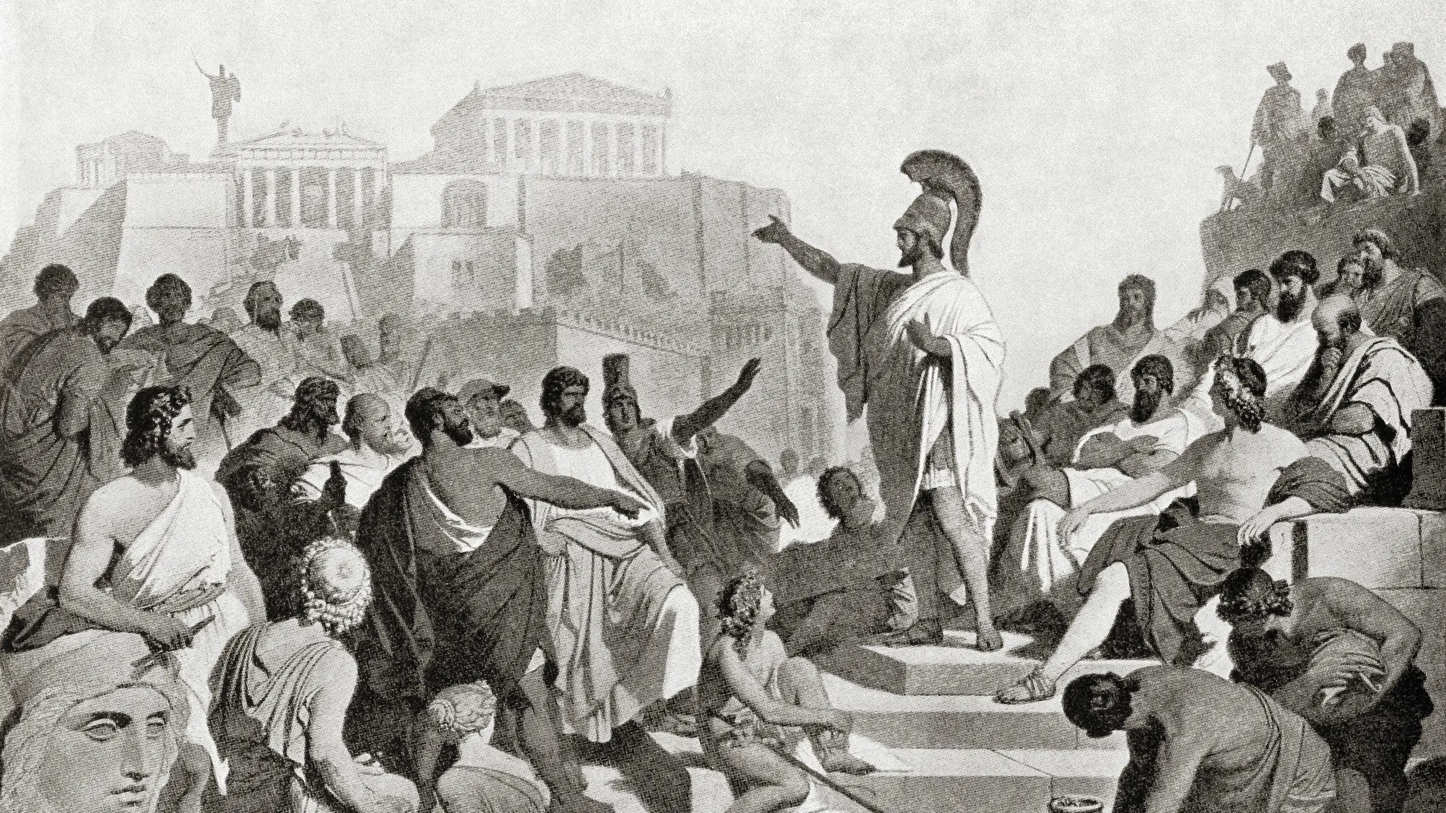
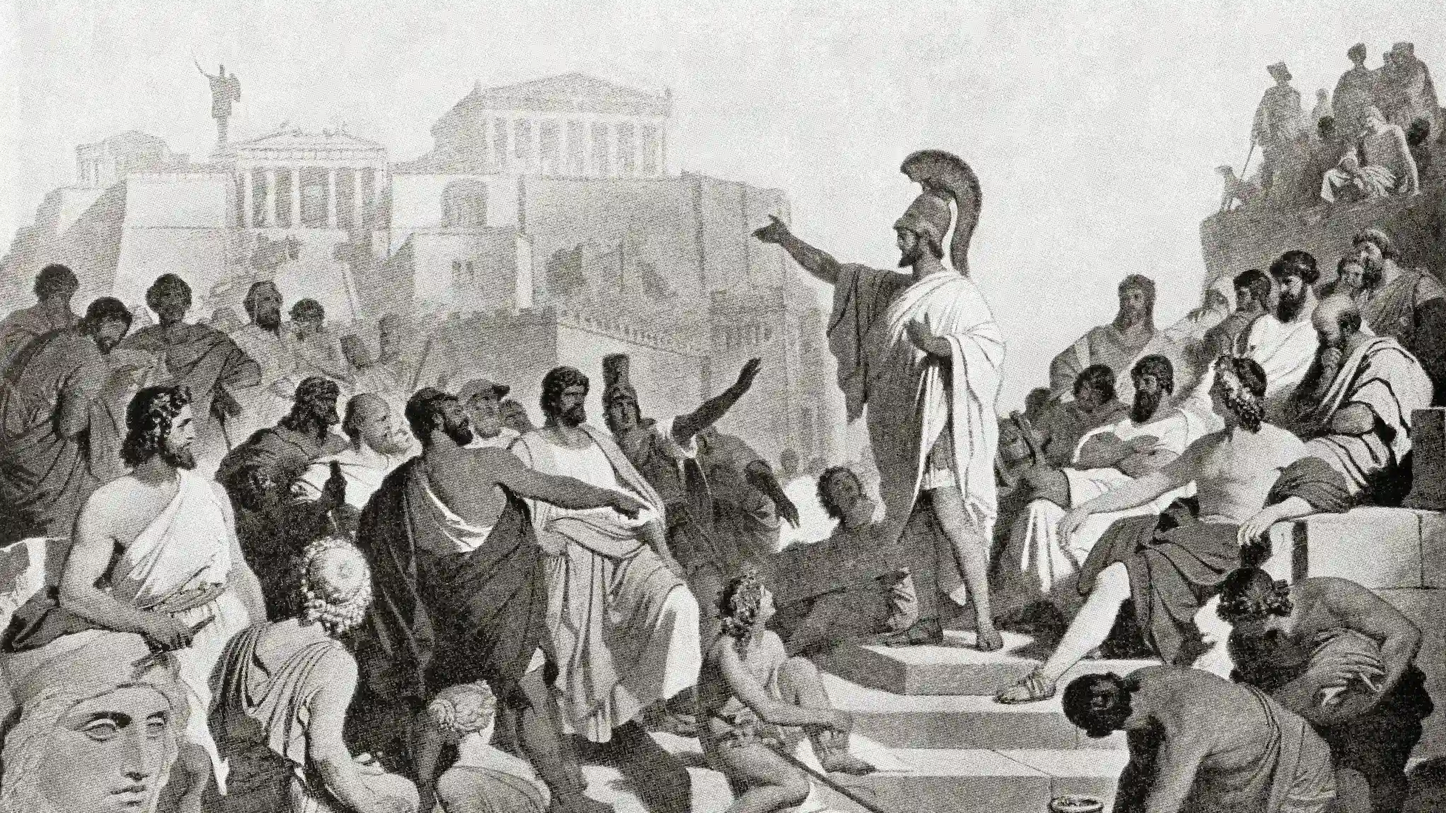
new blog added and images efficiency improved

diff --git a/blog/flash-fiction/2025-11-05-23-years-apart.html b/blog/flash-fiction/2025-11-05-23-years-apart.html
@@ -1,0 +1,97 @@
+<!doctype html>
+<html lang="en">
+	<head>
+		<title>23 Years Apart</title>
+		<meta property="og:title" content="23 Years Apart">
+		<meta property="og:type" content="website">
+		<meta property="og:url" content="https://spacesanjeet.me/blog/flash-fiction/2025-11-05-23-years-apart.html">
+		<meta property="og:image" content="https://spacesanjeet.me/images/cloy-train-quote.jpg">
+		<meta property="og:description" content="An emotional tale of twin brothers and their 2 decades long separation.">
+		<meta charset = "utf-8">
+		<meta http-equiv="X-UA-Compatible" content="IE=edge">
+  		<meta name="viewport" content="width=device-width, initial-scale=1, shrink-to-fit=no">
+		<link rel="stylesheet" href="../../css/simple.css">
+		<link rel="alternate" type="application/atom+xml" href="https://spacesanjeet.me/blog/feed.xml">
+		<link rel="preconnect" href="https://fonts.googleapis.com">
+		<link rel="preconnect" href="https://fonts.gstatic.com" crossorigin>
+		<link href="https://fonts.googleapis.com/css2?family=Inter:ital,opsz,wght@0,14..32,100..900;1,14..32,100..900&family=Spectral:ital,wght@0,200;0,300;0,400;0,500;0,600;0,700;0,800;1,200;1,300;1,400;1,500;1,600;1,700;1,800&display=swap" rel="stylesheet">
+		<link rel="apple-touch-icon" sizes="180x180" href="../../favicon/apple-touch-icon.png">
+    	<link rel="icon" type="image/png" sizes="32x32" href="../../favicon/favicon-32x32.png">
+    	<link rel="icon" type="image/png" sizes="16x16" href="../../favicon/favicon-16x16.png">
+    	<link rel="manifest" href="../../favicon/site.webmanifest">
+	</head>
+
+	<body>
+		<header>
+			<nav>
+  				<a href="../../index.html">Home</a>
+  				<a href="index.html" aria-current="page">Blog</a>
+  				<a href="../../about.html">About</a>
+  				<a href="../../resume.html">Resume</a>
+  				<a href="../../youtube.html">YouTube</a>
+			</nav>
+			<h1>23 Years Apart</h1>
+		</header>
+
+		<main>
+			<p>
+				823 words, 4 minutes read time.</p>
+			<figure>
+				<img src="../../images/asarodger-cliff.webp" alt="Two people look into the ocean from a short rocky cliff above while another person uses a fishing line down below.">
+				<figcaption>
+					Photo by <a href="https://unsplash.com/@asarodger">Asa Rodger</a> on <a href="https://unsplash.com/photos/silhouettes-of-people-on-cliff-overlooking-ocean-at-sunset-bB2DC8woTtI">Unsplash</a>
+  				</figcaption>
+			</figure>
+			<p>
+				“Are they looking down on us right now?”</p>
+			<p>
+				“I am not sure about that, bud. But do I hope so? Yes, absolutely.”</p>
+			<p>
+				Bryan and Balumo were just 3 year old twins when 23 years ago while taking a vacation stroll down a narrow rocky shoreline near the ocean along with their parents. It was a warm evening and the family was enjoying themselves when a rising tide slammed into the family.</p>
+			<p>
+				Their mother, Mrs. Slecher held Bryan strong enough to avoid falling off the shoreline and into the vastness of the ocean. In an unfortunate turns of events, while Mr. Slecher did get hold of Balumo in his right hand while hanging on to the cliff with his injured left one, the next wave came in quick and fast. They both went down and hit the rocks below and subsequent waves took them down into the ocean.</p>
+			<p>
+				“They spent 20 years looking for you. In the beginning I held on to the false hopes from our mother that you would come back soon enough from the hospital just like our father did. But as days and months passed, I went numb. I had all for myself. The extra care I got while you were away did soak up a lot of my emotional toll.”</p>
+			<p>
+				“I will have to go back soon enough. I need to attend to their care now and give back what they gave me all these years.”</p>
+			<p>
+				Mr. Slecher was found on a beach 9 miles away the next morning by the coast guard officers but there was no trace of Balumo. Due to the incessant requests of Mrs. Slecher and the local community, the city mayor Mr. Roshan pressed the state’s Home Ministry to let the coast guard contiue their search, atleast for a week more.</p>
+			<p>
+				“How are they doing? When I visited a month ago, they looked to be doing good.”</p>
+			<p>
+				“You were a guest. They had to behave and contain themselves. I have saved enough to get my mother to have her kidneys fixed. My father wants all to be done for her first. He won’t listen to me. He needs to get his liver transplant as soon as possible.”</p>
+			<p>
+				Balumo, miraculously survived the mightly waves and was found by a fishing couple the next morning, 21 miles away from where they stand today. Entangled in their fishing net, Mr. and Mrs. Flair had thought they had secured their cash. Instead, they found the child which the god had denied them till then.</p>
+			<p>
+				While the city council and the mayor did whatever they could to find the little boy, one thing they didn’t was listen to bedridden Mr. Slecher to advertise the missing boy hunt on both the radio and the television. Slamen is a small coast city and they did not have enough funds back then for the initiative. The mayor had already used up all his might to get the Home Ministry to fund the coast guard overtime search.</p>
+			<p>
+				“I know we had been separated for 23 years. We have both lived different lives. I even get to say that I am the luckiest man in the world, for I am the son with 2 mothers and 2 fathers. But I hope you will help me in this hour of need. I am sorry if I embarrass you but my parents need medical care and I don’t have enough for both.”</p>
+			<p>
+				“Are you stupid, Balumo. You are my brother. You are my other half. You are my blood. Our parents spent 20 years of their lives finding you in vain. But they still left 50% of everything they ever made for you. We will take good care of our parents. Wait, can I say that?”</p>
+			<p>
+				“Dumbo, yes, you can. They saved your twin brother. They cared for me, sent me to college, and gave me everything I asked. All while earning scraps. Isn’t that what our parents did for you too?”</p>
+			<p>
+				Mr. and Mrs Slecher died in a car crash 3 years ago while returning from a nearby city where an old acquaintance had called them due to mistakenly identifying a man to be resembling Bryan.</p>
+			<p>
+				“Let’s go save our parents. Let’s not lose what’s ours, ever again. Light will shine on our family, perhaps blessed by our parents who are in god’s lap now.”</p>
+			<p>
+				“Thank you, Bryan. Someday in the peace and quiet of these waves, I will recite you my life. For now, we move.”</p>
+			<p>
+				Mr. and Mrs. Flair had come across a local newspaper ad run by Mr. Slecher 6 months after the waves took Balumo. The ad had a picture of Bryan for people to identify Balumo. They both knew at once who their child was and where he came from.</p>
+			<p>
+				They never contacted the Slecher family. For they thought, whatever god sends their way, shall be their way.</p>
+			<hr>
+			<p>
+				<a href="https://lifeafter50forwomen.com/2025/10/27/what-do-you-see-312-october-27-2025/">Written for What do you see #312.</a></p>
+			
+			<a href="index.html" class="button">&larr; Back to Flash Fiction</a>
+		</main>
+
+		<footer>
+			<a href="../../blog/feed.xml" title="Subscribe to RSS/Atom feed">
+  				<img src="../../images/feed.svg" alt="RSS Feed" style="width:18px; height:18px;">
+			</a>
+    		<p>Made with ❤ by Sanjeet Patel.</p>
+  		</footer>
+	</body>
+</html>

diff --git a/blog/2025/2025-08-27-leap-of-faith.html b/blog/2025/2025-08-27-leap-of-faith.html
@@ -57,7 +57,7 @@
 			<p>
 				The reason I talk about this scenario is because human beings are distracted by definition. We are multi-taskers. We shouldn't be. But we do it anyways, more often than ever in a digital world. Thus it is very likely most of the media on a regular basis is being consumed by distracted minds who are not fully paying attention to what is going into their brains. And that then translates to mood dependent opinions, discussions, and ratings.</p>
 			<figure>
-				<img src="../../images/leap-of-faith.png" alt="Spider-Man saying 'Leap of Faith'">
+				<img src="../../images/leap-of-faith.webp" alt="Spider-Man saying 'Leap of Faith'">
 				<figcaption>
     			Screenshot from Spider-Man: Into the Spider-Verse (2018), © Sony Pictures Animation, Columbia Pictures, Marvel Entertainment. Used for review purposes.
   				</figcaption>

diff --git a/blog/flash-fiction/index.html b/blog/flash-fiction/index.html
@@ -40,9 +40,16 @@
       <a class="button" href="../2026/index.html">2026</a>
       <article>
         <h3>
-        <a href="2025-11-05-electricity-cut.html">Electricity Cut</a>
+        <a href="2025-11-05-23-years-apart.html">23 Years Apart</a>
         </h3>
         <p><mark><time datetime="2025-11-05">November 05, 2025</time></mark></p>
+        <p>An emotional tale of twin brothers and their 2 decades long separation.</p>
+        </article>
+      <article>
+        <h3>
+        <a href="2025-11-04-electricity-cut.html">Electricity Cut</a>
+        </h3>
+        <p><mark><time datetime="2025-11-04">November 04, 2025</time></mark></p>
         <p>Conversation ensues as a train stops dead in the middle of nowhere.</p>
         </article>
       <article>

diff --git a/blog/2024/2024-12-26-tennis-in-2024.html b/blog/2024/2024-12-26-tennis-in-2024.html
@@ -58,7 +58,7 @@
 			<p>
 				The problem is, that Zverev has always had to battle the big boys deep into the slams. But nobody promised him that he would not face the top 5 and top 10s at slams. However much of his failures deep into slams can be attributed to his attitude. And I don’t mean he has a negative attitude.</p>
 			<figure>
-				<img src="../../images/zverev-fo24.jpg" alt="Zverev in the post-final ceremony at the Roland Garros">
+				<img src="../../images/zverev-fo24.webp" alt="Zverev in the post-final ceremony at the Roland Garros">
 				<figcaption>
     			Zverev in the post-final ceremony at the Roland Garros; Image Source: <a href="https://x.com/rolandgarros/status/1799898260103958780/photo/1">Roland Garros/X</a>
   				</figcaption>

diff --git a/index.html b/index.html
@@ -50,7 +50,7 @@
 
 			<ul>
 				<li>Blog Posts: <a href = "blog/2025/2025-09-18-experiencing-entropy.html">Experiencing Entropy</a>, <a href = "blog/2025/2025-08-27-leap-of-faith.html"> Leap of Faith</a></li>
-				<li>Flash Fiction: <a href = "blog/flash-fiction/2025-11-05-electricity-cut.html">Electricity Cut</a>, <a href = "blog/flash-fiction/2025-10-30-independent-candidate.html"> Independent Candidate</a></li>
+				<li>Flash Fiction: <a href = "blog/flash-fiction/2025-11-05-23-years-apart.html">23 Years Apart</a>, <a href = "blog/flash-fiction/2025-11-04-electricity-cut.html"> Electricity Cut</a></li>
 			</ul>
 
 			<p>

diff --git a/blog/flash-fiction/2025-11-04-electricity-cut.html b/blog/flash-fiction/2025-11-04-electricity-cut.html
@@ -4,7 +4,7 @@
 		<title>Electricity Cut</title>
 		<meta property="og:title" content="Electricity Cut">
 		<meta property="og:type" content="website">
-		<meta property="og:url" content="https://spacesanjeet.me/blog/flash-fiction/2025-11-05-electricity-cut.html">
+		<meta property="og:url" content="https://spacesanjeet.me/blog/flash-fiction/2025-11-04-electricity-cut.html">
 		<meta property="og:image" content="https://spacesanjeet.me/images/cloy-train-quote.jpg">
 		<meta property="og:description" content="Conversation ensues as a train stops dead in the middle of nowhere.">
 		<meta charset = "utf-8">

diff --git a/about.html b/about.html
@@ -35,7 +35,7 @@
 
 		<main>
 			<figure>
-				<img src="images/sanjeet.jpg" alt="Sanjeet Patel">
+				<img src="images/sanjeet.webp" alt="Sanjeet Patel">
 				<figcaption>
     			Yes, that is me! The time when I visited the <a href="https://vanviharnationalpark.org/"> Van Vihar National Park</a>.
   				</figcaption>
